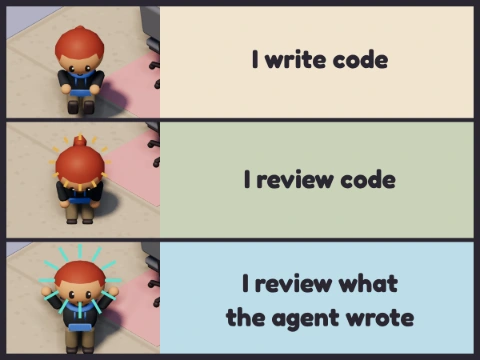
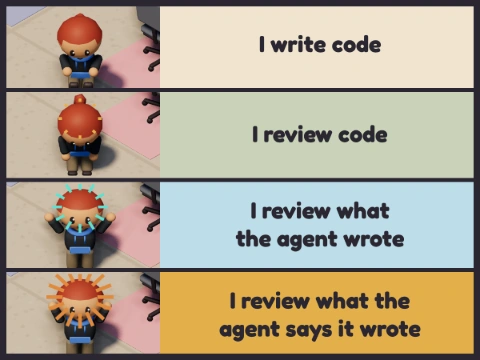
fix(trailer): the office move on screen, a thinned-out Plateau, and the printer cut on its cue
The office beat opens just before the move so the new floor drops on
screen; the Plateau beat uses seed 2 at week 705 (15 of 35 at HQ) and
pushes in on the largest group of empty desks; the printer cut follows
the moment's start mark. The landing Yak crop keeps a margin for a
taller thread. The expanding-brain meme gets its punchline row, and
docs/reels.md states the memes' mock-garage exception.

diff --git a/scripts/feature-media/manifest.js b/scripts/feature-media/manifest.js
@@ -37,11 +37,24 @@ const GROWTH_STAGES = [['garage', 6, 'Classic'], ['floor', 138, 'Classic'], ['fl
 const VIEW0 = { js: '(window.__view0 ??= window.__hitlRender.view())' };
 // The people's centre, for a tighter frame on a filled room.
 const PEOPLE = { js: "(() => { let n = 0, x = 0, z = 0; window.__hitlRender.scene.traverse((o) => { if (o.userData.staffId !== undefined) { const v = o.parent.getWorldPosition(new o.parent.position.constructor()); x += v.x; z += v.z; n++; } }); return window.__people ??= (n ? { x: x / n, z: z / n } : null); })()" };
+// The middle of the largest group of empty desks (desks with nobody seated within 1.2 m), found once,
+// for a push-in that shows who's gone. Desk and seat positions come from their screen boxes projected
+// onto the floor.
+export const EMPTY_DESKS = { js: `(window.__emptyAt ??= (() => {
+  const R = window.__hitlRender, T = R.THREE, s = window.__HITL.state, cam = R.camera, ray = new T.Raycaster(), floor = new T.Plane(new T.Vector3(0, 1, 0), 0);
+  const ground = (r) => { if (!r) return null; ray.setFromCamera(new T.Vector2(((r.left + r.width / 2) / innerWidth) * 2 - 1, -(((r.top + r.height * 0.7) / innerHeight) * 2 - 1)), cam); const p = new T.Vector3(); return ray.ray.intersectPlane(floor, p) ? p : null; };
+  const people = s.staff.map((p) => ground(R.screenRectOf({ kind: 'staff', id: p.id }))).filter(Boolean);
+  const empty = s.office.placed.filter((i) => i.itemId === 'desk').map((i) => ground(R.screenRectOf({ kind: 'item', id: i.id }))).filter((d) => d && !people.some((p) => Math.hypot(p.x - d.x, p.z - d.z) < 1.2));
+  if (!empty.length) return undefined;
+  const near = (d) => empty.filter((e) => Math.hypot(e.x - d.x, e.z - d.z) < 2.5);
+  const best = empty.reduce((a, d) => (near(d).length > near(a).length ? d : a));
+  const g = near(best); return { x: g.reduce((t, d) => t + d.x, 0) / g.length, z: g.reduce((t, d) => t + d.z, 0) / g.length };
+})())` };
 const GROWTH_CAMERA = {
   'floor-full': [{ at: 0, target: PEOPLE, zoom: 1.7 }],
   late: [{ at: 0, target: VIEW0, zoom: 1.25 }, { at: 1, target: VIEW0, zoom: 1.25 }, { at: 5.5, target: [-1.6, -4.1], zoom: 2.5, ease: 'inOut' }],
 };
-const GROW = (week) => `(async () => {
+export const GROW = (week) => `(async () => {
   const sim = await import('/src/sim/index.js');
   const b = await import('/src/sim/bots.js');
   const s = window.__HITL.state;
@@ -212,10 +225,10 @@ export const ITEMS = [
       ...[11.5, 16, 22, 28, 32, 48, 59].map((at) => ({ at, js: `[...document.querySelectorAll('.chat.yak button')].find((b) => b.getClientRects().length && b.textContent.trim().startsWith('#random'))?.click()` })),
       { at: 59.5, js: "(async () => { const m = document.querySelector('.chat.yak .msg[data-id=\"' + CSS.escape(window.__yakMeme.id) + '\"]'); m?.scrollIntoView({ block: 'start' }); const img = m?.querySelector('.ymeme-img'); if (!img) throw new Error('yak: missing displayed image'); await img.decode(); })()" },
       { at: 60, js: 'window.__frameYak()' },
-      YAK_CHECK(60.1, { crop: [410 / 1920, 214 / 1080, 1120 / 1920, 700 / 1080] }),
+      YAK_CHECK(60.1, { crop: [376 / 1920, 190 / 1080, 1168 / 1920, 730 / 1080] }),
     ],
     screenshots: [11.1, 60.1],
-    out: [{ path: 'img/yak-backfire.webp', size: '1280x800', from: 60.1, crop: { x: 410 / 1920, y: 214 / 1080, w: 1120 / 1920, h: 700 / 1080 } }],
+    out: [{ path: 'img/yak-backfire.webp', size: '1280x800', from: 60.1, crop: { x: 376 / 1920, y: 190 / 1080, w: 1168 / 1920, h: 730 / 1080 } }],
   },
   {
     id: 'site-printer', title: 'Landing page loop: the printer taken out back', query: 'seed=1&speed=1', moment: 'printer_jam --stage floor --choice 0', pre: true, seconds: 25, warmup: 6.5,

diff --git a/scripts/trailer/config.js b/scripts/trailer/config.js
@@ -1,4 +1,5 @@
 import { YAK_HELPERS, YAK_CHECK } from '../feature-media/yak.js';
+import { GROW, EMPTY_DESKS } from '../feature-media/manifest.js';
 import { PRE_UNTIL, IN_OFFICE, CHAT_HISTORY, YAK_ONLY, CAMLOG } from '../capture-manifest.js';
 
 // Everything the trailer is made of: which captured clips, where each cut starts and ends, the cards,
@@ -70,7 +71,8 @@ export const BEATS = [
   { id: 'title', card: 'title', dur: 2.0 },
   // The founders' first desks, with a slow in-engine push-in.
   { id: 'garage', item: 'growth-garage', capture: { seconds: 8, camera: [{ at: 1, target: VIEW0, zoom: 1.0 }, { at: 7, target: VIEW0, zoom: 1.35 }] }, from: 1.0, dur: 6.0 },
-  { id: 'office', item: '2-2-office-move', capture: { seconds: 9 }, actions: [LATER(0.1), NO_ERA_CARD(0)], from: 2.8, dur: 3.5 },
+  // From just before the move, so the new floor drops onto the garage on screen.
+  { id: 'office', item: '2-2-office-move', capture: { seconds: 9 }, actions: [LATER(0.1), NO_ERA_CARD(0)], from: 1.8, dur: 3.5 },
   // The player places a foosball table (the build bar is the one interface kept), and people come to play.
   { id: 'build', item: 'trail-build', capture: { seconds: 7 }, from: 0.9, dur: 4.0 },
   // The hire panel: a candidate hired.
@@ -83,7 +85,7 @@ export const BEATS = [
   { id: 'yak', item: 'site-yak-backfire', capture: { setup: YAK_SETUP, still: false, seconds: 64, screenshots: [] }, actions: [NO_SAY_T(0), YAK_CHECK(61.5), YAK_CHECK(63.06)], from: 60.1, dur: 3.1 },
   { id: 'yak-react', item: 'site-yak-backfire', capture: { setup: YAK_SETUP, still: false, seconds: 13, screenshots: [11.2, 11.6, 12.4], camera: [{ at: 0, target: VIEW0, zoom: 1 }, { at: 11, target: VIEW0, zoom: 1 }, { at: 11.2, target: FACEPALMER, zoom: 4.2 }] }, actions: [...CAMLOG(13), NO_SAY_T(0), { at: 11, js: "document.querySelector('#ui').style.display = 'none'" }, { at: 11.3, js: "if (!window.__facepalmer) throw new Error('trailer: the post has no facepalmer')" }], from: 11.0, dur: 1.5 },
   // PC LOAD LETTER from the flying camera: the wind-up and hits, to the rap's last word. No narration.
-  { id: 'printer', item: 'trail-fly-printer', capture: { seconds: 29 }, from: 22 + 17 / 30, dur: 5.7 },
+  { id: 'printer', item: 'trail-fly-printer', capture: { seconds: 29 }, from: 23 + 1 / 30, dur: 5.7 },
   { id: 'era-chatgbt', item: 'real-era-chatgbt', actions: [NO_ERA_CARD(0)], from: 9.0, dur: 4.1 },
   { id: 'era-agents', item: 'real-era-agents', actions: [NO_ERA_CARD(0)], from: 9.0, dur: 2.4 },
   // The runaway cloud bill: the hot rack smoking behind the card.
@@ -93,8 +95,8 @@ export const BEATS = [
   // The flying camera's orbit onto the waffle table.
   { id: 'waffle', item: 'trail-fly-waffle', from: 14.3, dur: 4.2 },
   { id: 'dance', item: 'site-loop-music', capture: { camera: [{ at: 14, target: DANCER, zoom: 2.2 }] }, from: 19.0, dur: 3.0 },
-  // A live Plateau office, pushing in on the empty desks.
-  { id: 'plateau', item: 'growth-late', capture: { query: 'seed=2&speed=1&time=day' }, from: 0.5, dur: 5.0 },
+  // Seed 2 once automation has run the office down (15 of 35 at HQ), pushing in on the empty desks.
+  { id: 'plateau', item: 'growth-late', capture: { query: 'seed=2&speed=1&time=day', setup: GROW(705), camera: [{ at: 0, target: VIEW0, zoom: 1.25 }, { at: 1, target: VIEW0, zoom: 1.25 }, { at: 5.5, target: EMPTY_DESKS, zoom: 2.5, ease: 'inOut' }] }, from: 0.5, dur: 5.0 },
   { id: 'end', card: 'end', dur: 8.0 },
 ];
 

diff --git a/scripts/trailer/assertions.js b/scripts/trailer/assertions.js
@@ -1,7 +1,7 @@
 // Predicates run in the capture page at the cut, against the live sim, renderer and visible UI.
 const EXPECT = {
   garage: "s.office.stage === 0 && s.staff.length === 2",
-  office: "s.office.stage === 1",
+  office: "s.office.stage <= 1",
   build: "visible('.buildbar', 'Foosball') && window.__glide",
   hire: "visible('.cand button:not(:disabled)', 'Hire') && s.candidates.length > 0",
   launch: "s.office.stage === 1 && visible('.modal.launch', 'Review average') && s.products.some(p => p.version === 1 && p.score >= 9 && visible('.modal.launch', p.name + ' launched!'))",
@@ -15,7 +15,8 @@ const EXPECT = {
   'era-consolidation': "s.era.id === 'consolidation' && s.office.stage === 2",
   waffle: "R.incentives?.party && R.flying",
   dance: "R.incentives?.dance?.dancers?.length > 0",
-  plateau: "s.era.id === 'plateau' && s.office.stage === 2 && s.staff.length > 0 && s.staff.length < s.office.placed.filter(p => p.itemId === 'desk').length",
+  // The shot's point is the thinned office: at most half the desks are staffed.
+  plateau: "s.office.stage === 2 && s.staff.length > 0 && s.staff.length * 2 <= s.office.placed.filter(p => p.itemId === 'desk').length",
 };
 
 function check(id, at, predicate) {
@@ -42,6 +43,8 @@ export function beatAssertions(beat) {
   if (!predicate) throw new Error(`trailer: no cut assertion for ${beat.id}`);
   const checks = [check(beat.id, beat.from, predicate)];
   // The build and hire beats must complete the action after opening on its controls.
+  // The move lands during the beat.
+  if (beat.id === 'office') checks.push(check(beat.id, beat.from + 1.2, 's.office.stage === 1'));
   if (beat.id === 'build') checks.push(check(beat.id, 3, "s.office.placed.some(p => p.itemId === 'foosball')"));
   if (beat.id === 'printer') checks.push(check(beat.id, beat.from + 2, 'R.moments.printer?.hit >= 2 && R.flying'));
   if (beat.id === 'hire') {

diff --git a/docs/reels.md b/docs/reels.md
@@ -9,6 +9,7 @@ The game is the show. Every effect exists to make a beat easier to read, never t
 ## Shooting
 
 - **Through the real game loop, always.** Open a moment the week before it happens and let the game's own tick bring it live, card and freeze included.
+  - **The one exception is illustration:** Yak's picture memes (`scripts/reels/memes.mjs`) pose characters in the mock garage with props added for the joke. They show no game state, so there's no real moment to open. Anything that claims to show the game (reels, trailers, landing shots, feature media) stays in the real loop.
 - **UI, per shot:**
   - **clean:** no interface at all (`STAGE_ONLY`). Use it for scenery, timelapses, the office in motion, and any moment that needs no card. This is the default.
   - **card:** the decision card and the moment caption only (`BARE`). Use it when the card is the joke, as in PC LOAD LETTER, the consultants and the cloud bill.
